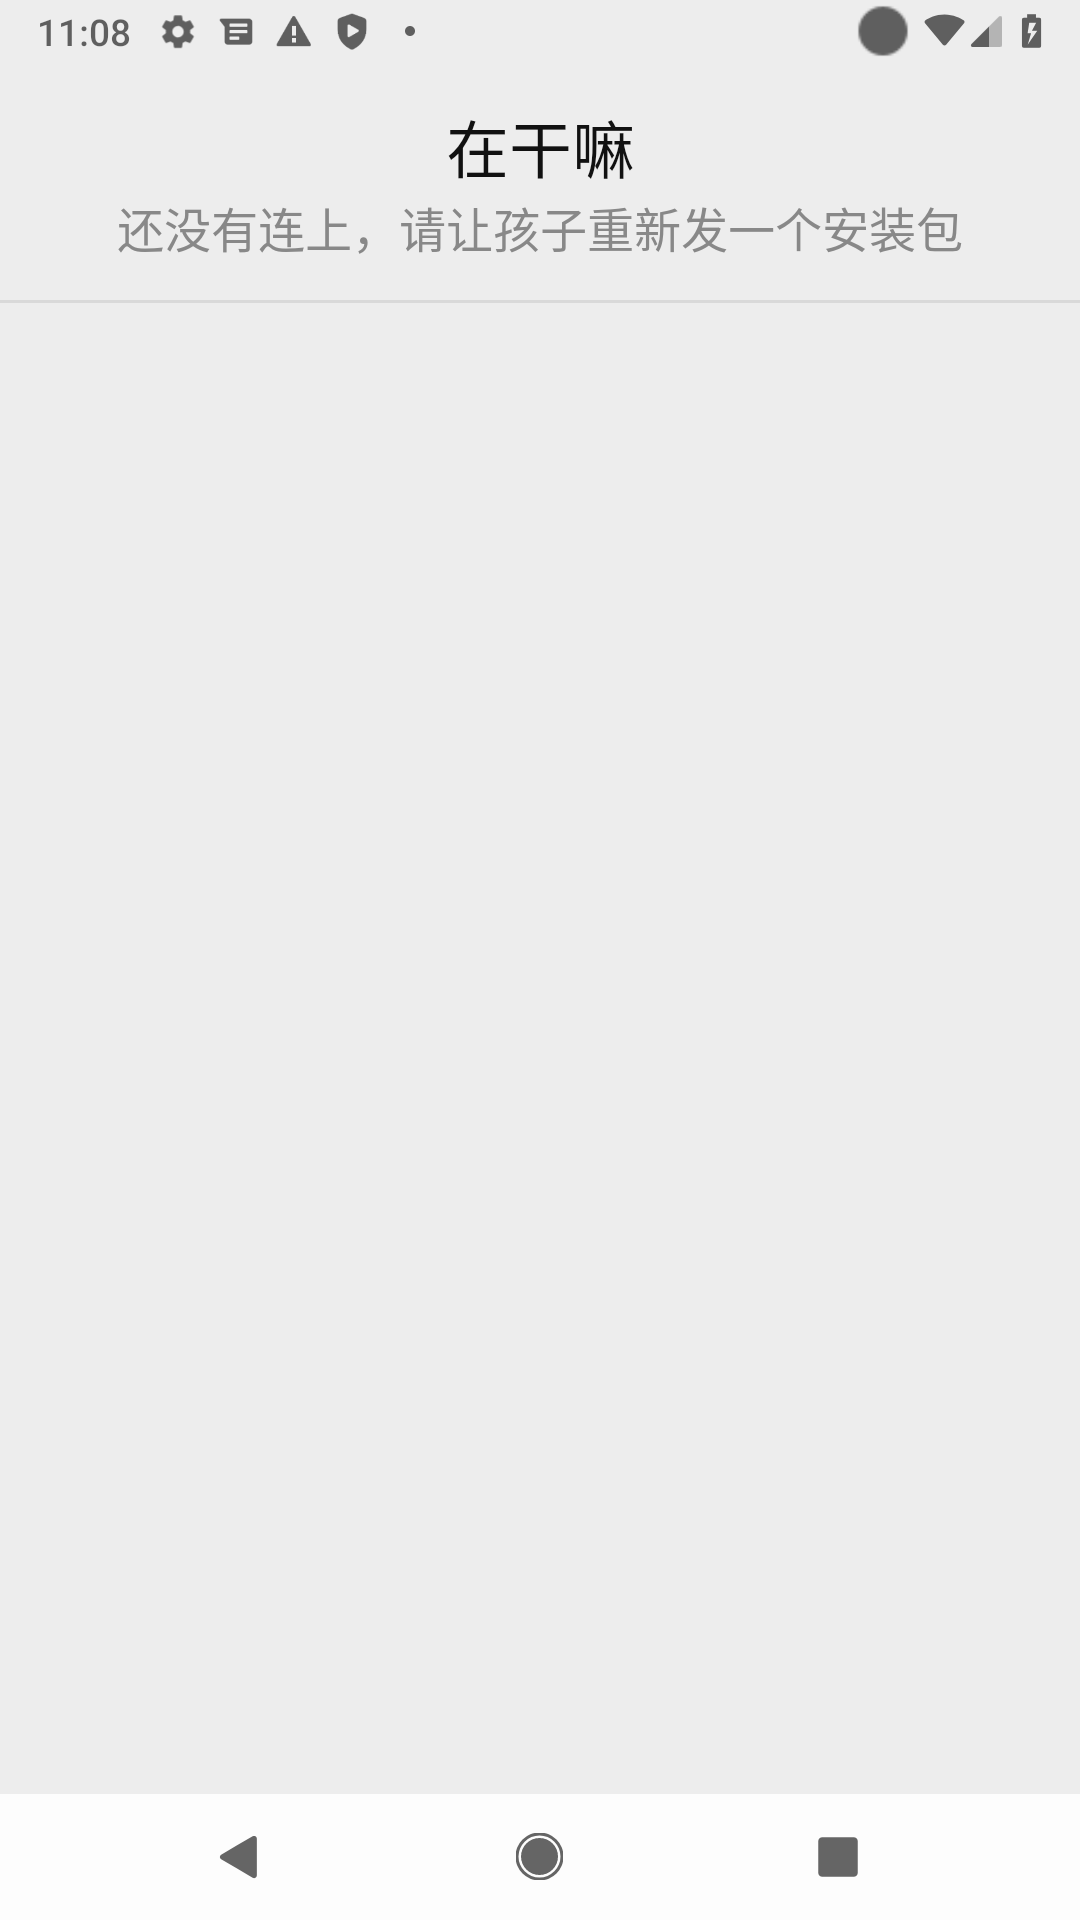
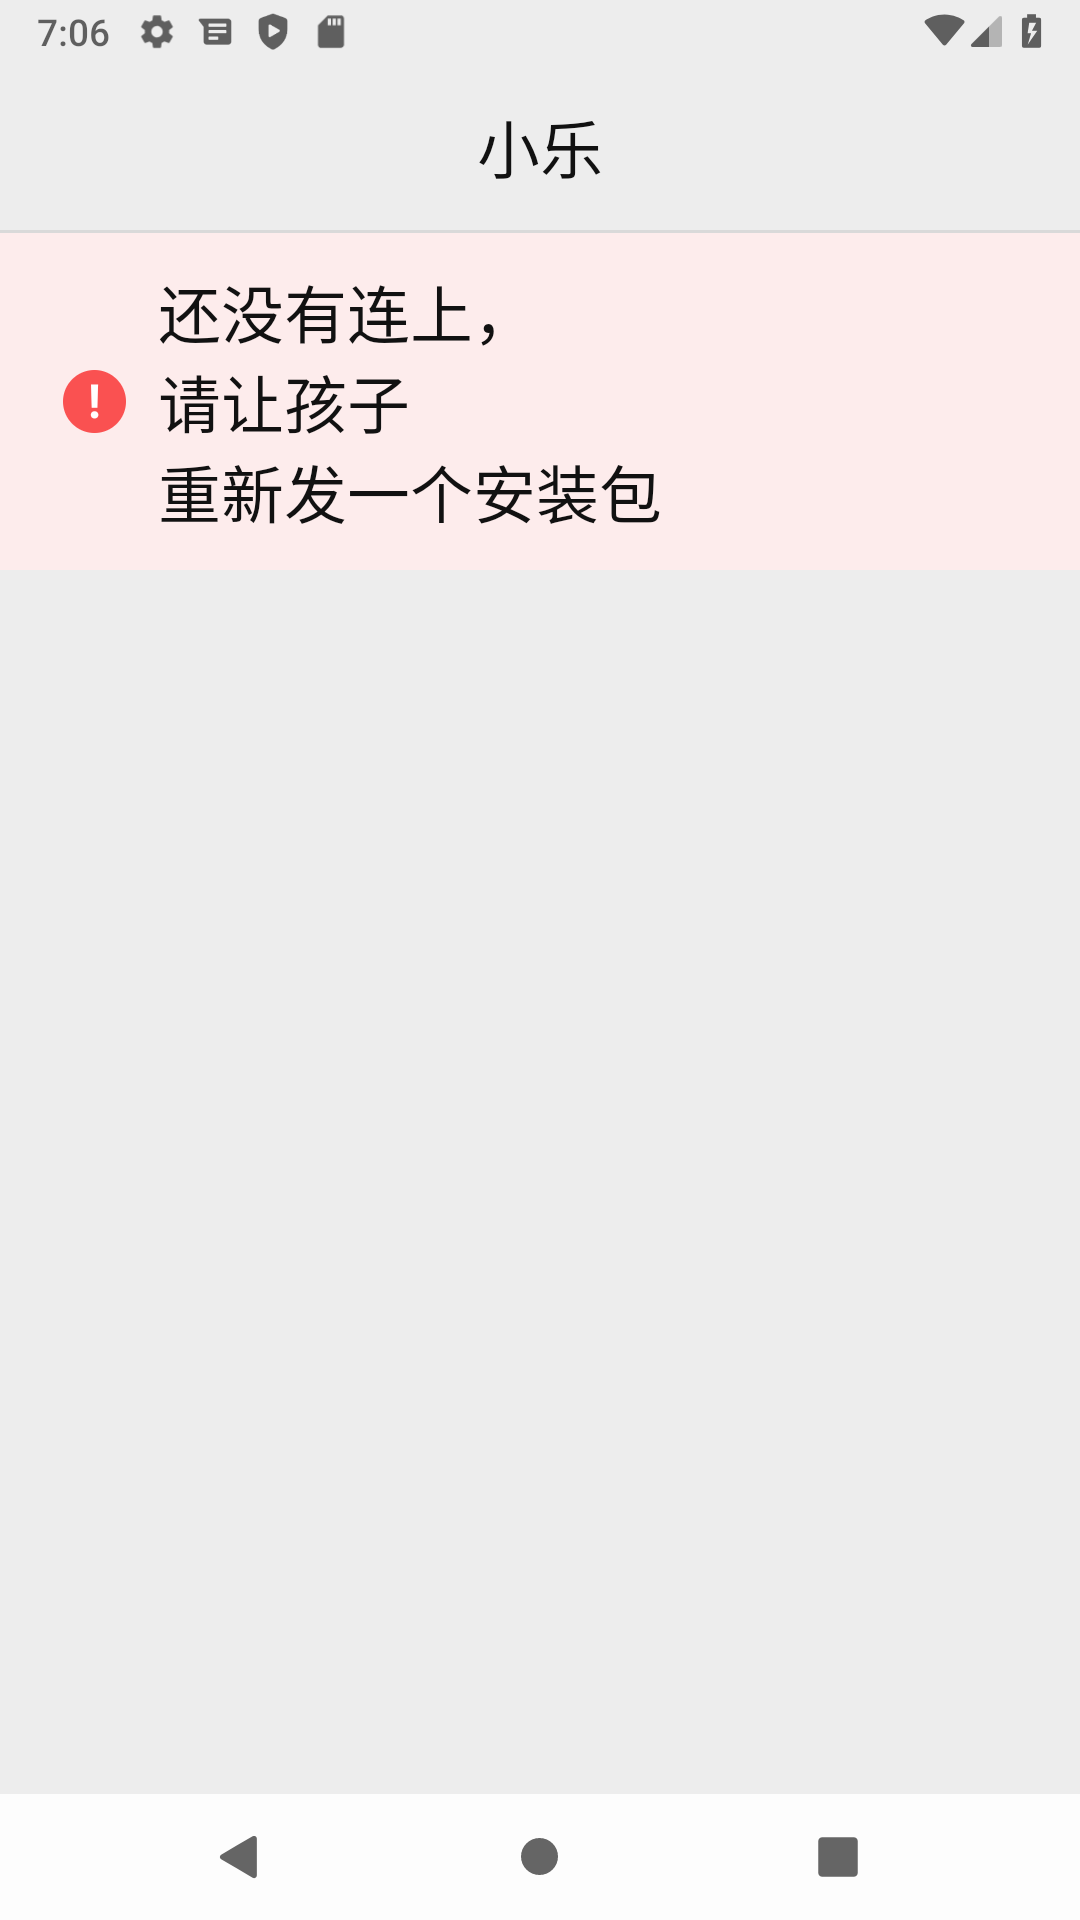
Status strip and a red ! that stays in its circle at the largest font
At font_scale 2.0 (24sp renders at ~36sp, measured 32.8dp glyphs) the
status sentence wrapped mid-word in both states and the 18sp ! outgrew
its 24dp circle into a white bar. The status now sits in a pale red
strip under the divider, one clause per line (HeaderTest, red first);
the ! glyph is sized in dp so it stays with the circle. Every main
screen re-shot at 2.0 in screenshots/*-2.0.png.

diff --git a/app/src/main/java/ai/openonion/whatcha/ChatScreen.kt b/app/src/main/java/ai/openonion/whatcha/ChatScreen.kt
@@ -48,6 +48,7 @@ import androidx.compose.ui.graphics.ColorFilter
 import androidx.compose.ui.graphics.asImageBitmap
 import androidx.compose.ui.input.pointer.pointerInput
 import androidx.compose.ui.platform.LocalContext
+import androidx.compose.ui.platform.LocalDensity
 import androidx.compose.ui.res.painterResource
 import androidx.compose.ui.semantics.Role
 import androidx.compose.ui.semantics.contentDescription
@@ -86,7 +87,8 @@ fun ChatScreen(vm: ChatViewModel) {
 
     Box(Modifier.fillMaxSize().background(ChatBackground).safeDrawingPadding().imePadding()) {
         Column(Modifier.fillMaxSize()) {
-            Header(headerTitle(title, lines), status)
+            Header(headerTitle(title, lines))
+            statusText(status)?.let { StatusStrip(it) }
             val hint = emptyHint(title, lines, status)
             if (hint != null) EmptyHint(hint, Modifier.weight(1f))
             else Conversation(lines, title, onReplay = vm::replay, onPlay = vm::playVoice, onRetry = vm::retry, modifier = Modifier.weight(1f))
@@ -112,12 +114,23 @@ private fun RecordingCard(modifier: Modifier) {
 }
 
 @Composable
-private fun Header(title: String, status: Status) {
-    Column(Modifier.fillMaxWidth().background(ChatBackground).padding(horizontal = 24.dp, vertical = 14.dp), horizontalAlignment = Alignment.CenterHorizontally) {
-        Text(title, style = Body.copy(fontWeight = FontWeight.Medium))
-        statusText(status)?.let { Text(it, style = Small) }
-    }
+private fun Header(title: String) {
+    Text(title, style = Body.copy(fontWeight = FontWeight.Medium), textAlign = TextAlign.Center,
+        modifier = Modifier.fillMaxWidth().background(ChatBackground).padding(horizontal = 24.dp, vertical = 14.dp))
     Box(Modifier.fillMaxWidth().height(1.dp).background(Divider))
+}
+
+// WeChat shows link trouble as a pale red strip under the title, a red circled ! and dark text, not as a grey subtitle.
+@Composable
+private fun StatusStrip(text: String) {
+    Row(
+        Modifier.fillMaxWidth().background(Color(0xFFFDECEC)).heightIn(min = TargetSize).padding(horizontal = 24.dp, vertical = 12.dp),
+        verticalAlignment = Alignment.CenterVertically,
+    ) {
+        RedBang()
+        Spacer(Modifier.width(12.dp))
+        Text(text, style = Body)
+    }
 }
 
 // A blank grey page gives a parent no reason to type; say what this is for until the first message.
@@ -135,12 +148,13 @@ private fun EmptyHint(hint: String, modifier: Modifier) {
 internal fun headerTitle(name: String, lines: List<Line>): String =
     if (lines.any { it.delivery == Delivery.SENT }) "对方正在输入..." else name
 
-// The parent only ever sees a plain sentence, never an error code.
-private fun statusText(status: Status): String? = when (status) {
-    Status.UNPAIRED -> "还没有连上，请让孩子重新发一个安装包"
+// The parent only ever sees a plain sentence, never an error code. One clause per line: at the largest
+// system font a clause of eight characters still fits the strip, a whole sentence wrapped mid-word.
+internal fun statusText(status: Status): String? = when (status) {
+    Status.UNPAIRED -> "还没有连上，\n请让孩子\n重新发一个安装包"
     Status.CONNECTING -> "正在连接…"
     Status.ONLINE -> null
-    Status.OFFLINE -> "暂时联系不上，稍后会自己重试"
+    Status.OFFLINE -> "暂时联系不上，\n稍后会自己重试"
 }
 
 @Composable
@@ -245,11 +259,19 @@ private fun DeliveryMark(delivery: Delivery, onRetry: () -> Unit) {
     ) {
         when (delivery) {
             Delivery.QUEUED, Delivery.SENT -> CircularProgressIndicator(Modifier.size(20.dp), color = Color(0xFF666666), strokeWidth = 3.dp)
-            Delivery.FAILED -> Box(Modifier.size(24.dp).background(Color(0xFFFA5151), CircleShape), contentAlignment = Alignment.Center) {
-                Text("!", style = TextStyle(fontSize = 18.sp, color = Color.White, fontWeight = FontWeight.Bold))
-            }
+            Delivery.FAILED -> RedBang()
             Delivery.DONE -> Unit
         }
+    }
+}
+
+// WeChat's red circled !. The glyph is sized in dp, not sp: at the largest system font an sp glyph
+// outgrew the 24dp circle and read as a white bar (sending-failed-2.0.png before this).
+@Composable
+private fun RedBang() {
+    val glyph = with(LocalDensity.current) { 18.dp.toSp() }
+    Box(Modifier.size(24.dp).background(Color(0xFFFA5151), CircleShape), contentAlignment = Alignment.Center) {
+        Text("!", style = TextStyle(fontSize = glyph, color = Color.White, fontWeight = FontWeight.Bold))
     }
 }
 

diff --git a/app/src/test/java/ai/openonion/whatcha/HeaderTest.kt b/app/src/test/java/ai/openonion/whatcha/HeaderTest.kt
@@ -1,6 +1,7 @@
 package ai.openonion.whatcha
 
 import org.junit.Assert.assertEquals
+import org.junit.Assert.assertNull
 import org.junit.Test
 
 class HeaderTest {
@@ -21,5 +22,22 @@ class HeaderTest {
     @Test
     fun aFailedMessageIsNotBeingAnswered() {
         assertEquals("小乐", headerTitle("小乐", listOf(asked(Delivery.FAILED))))
+    }
+
+    // Each clause on its own line: at the largest system font a status sentence wrapped mid-word (自己|重试, 重新|发一个安装包).
+    @Test
+    fun theOfflineSentenceBreaksAtItsComma() {
+        assertEquals("暂时联系不上，\n稍后会自己重试", statusText(Status.OFFLINE))
+    }
+
+    @Test
+    fun theUnpairedSentenceBreaksIntoShortClauses() {
+        assertEquals("还没有连上，\n请让孩子\n重新发一个安装包", statusText(Status.UNPAIRED))
+    }
+
+    @Test
+    fun nothingToSayWhileOnline() {
+        assertNull(statusText(Status.ONLINE))
+        assertEquals("正在连接…", statusText(Status.CONNECTING))
     }
 }
